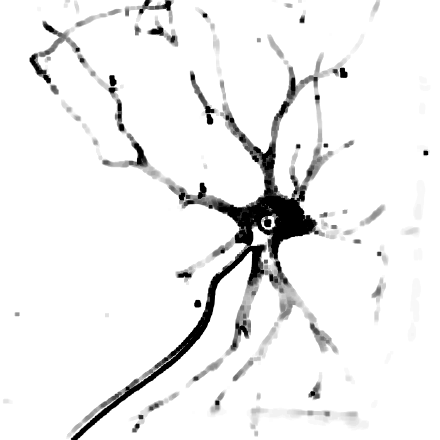
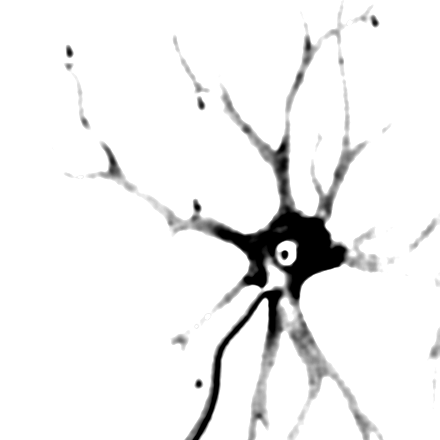
Machine intelligence, centred columns, cleaner neuron crop
Renames "Artificial intelligence" to "Machine intelligence".

The three columns now centre their headings, figures and body text.

Swaps in deiters_crop_white.png for the neuron. Rather than eyeballing the
crop, the square is centred on the ink itself: column and row masses weighted
by darkness, with near-paper tones discounted, taking the span holding 98% of
the ink. A plain bounding box was tried first and returned the whole plate,
because faint specks reach every edge.

That yields crop=858:858:54:83, which centres the soma instead of leaving it
right of centre with dead space beside it. The new source is already bold
enough that it needs only a light contrast lift, not the erosion pass the
previous scan required.

diff --git a/site/src/styles/global.css b/site/src/styles/global.css
@@ -433,8 +433,15 @@ h1 .badge { vertical-align: 6px; }
   grid-template-columns: repeat(3, 1fr);
   gap: 0 26px;
 }
-.forms.cols dt { margin-top: 0; grid-row: 1; }
-.forms.cols dd { grid-row: 2; font-size: 15.5px; line-height: 1.5; }
+.forms.cols dt { margin-top: 0; grid-row: 1; text-align: center; }
+.forms.cols dd {
+  grid-row: 2;
+  font-size: 15.5px;
+  line-height: 1.5;
+  text-align: center;
+}
+/* Centred text means the figure has to centre with it. */
+.forms.cols .form-figure-box { margin-left: auto; margin-right: auto; }
 
 @media (max-width: 700px) {
   .forms.cols { grid-template-columns: 1fr; gap: 0; }
